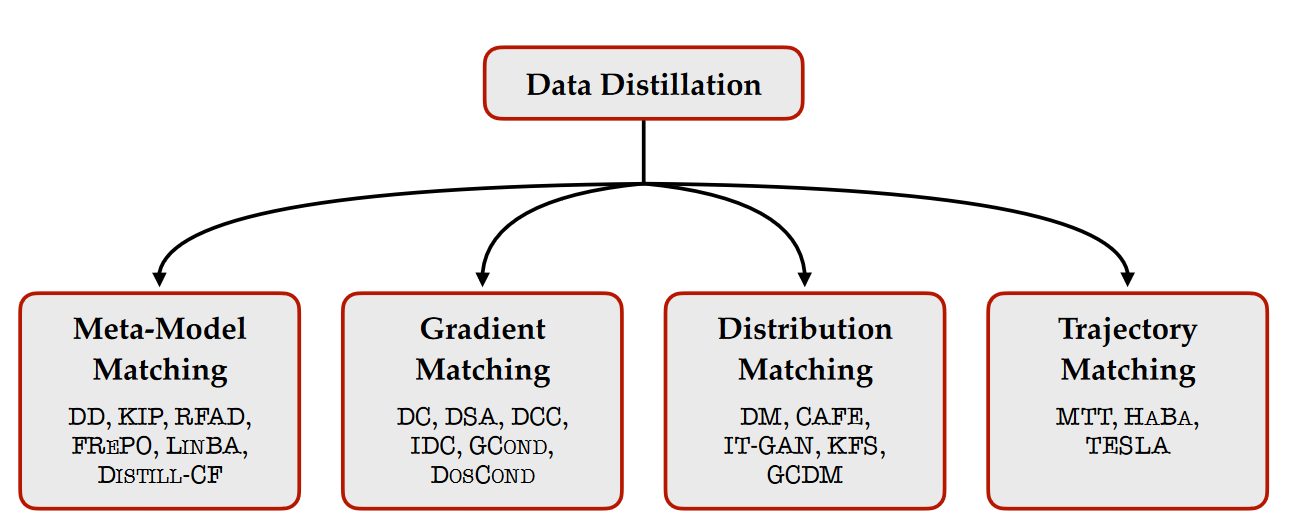
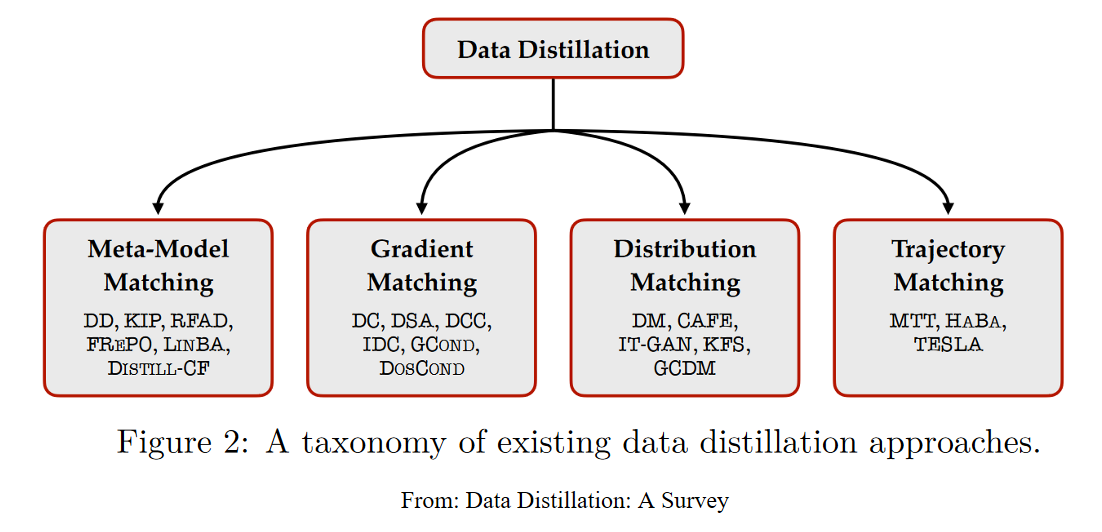
add one img for each summary at the begining

Changed region(s): [[0.0, 0.0302, 0.9873, 0.966], [0.1543, 0.2717, 0.2777, 0.3623], [0.8022, 0.3019, 0.833, 0.3321]]

diff --git a/papers/README.md b/papers/README.md
@@ -4,11 +4,11 @@
 
 <img src="https://img.shields.io/badge/GNNs-✓-9cf" alt="GNNs"/> <img src="https://img.shields.io/badge/Dataset%20Distillation-✓-9cf" alt="Dataset Distillation"/> <img src="https://img.shields.io/badge/Classic-✓-9cf" alt="Classic"/> <img src="https://img.shields.io/badge/Interests-✓-9cf" alt="Interests"/>
 
-<img src="imgs/misc/survey-sachdeva-overview.png" width="600"/>
+<p align="center">
+  <img src="imgs/misc/survey-sachdeva-overview.png" width="600"/>
+</p>
 
 TOC
-
-
 
 - [My Reading List](#my-reading-list)
 - [Data Distillation](#data-distillation)

diff --git a/papers/survey - Data Distillation (Sachdeva, 2023).md b/papers/survey - Data Distillation (Sachdeva, 2023).md
@@ -1,5 +1,7 @@
 # Data Distillation: A Survey
 
+<img src="imgs/misc/survey-sachdeva-overview.png" width="600"/>
+
 - [Data Distillation: A Survey](#data-distillation-a-survey)
 - [What did the authors tried to accomplished?](#what-did-the-authors-tried-to-accomplished)
 - [Key elements of the approach](#key-elements-of-the-approach)
